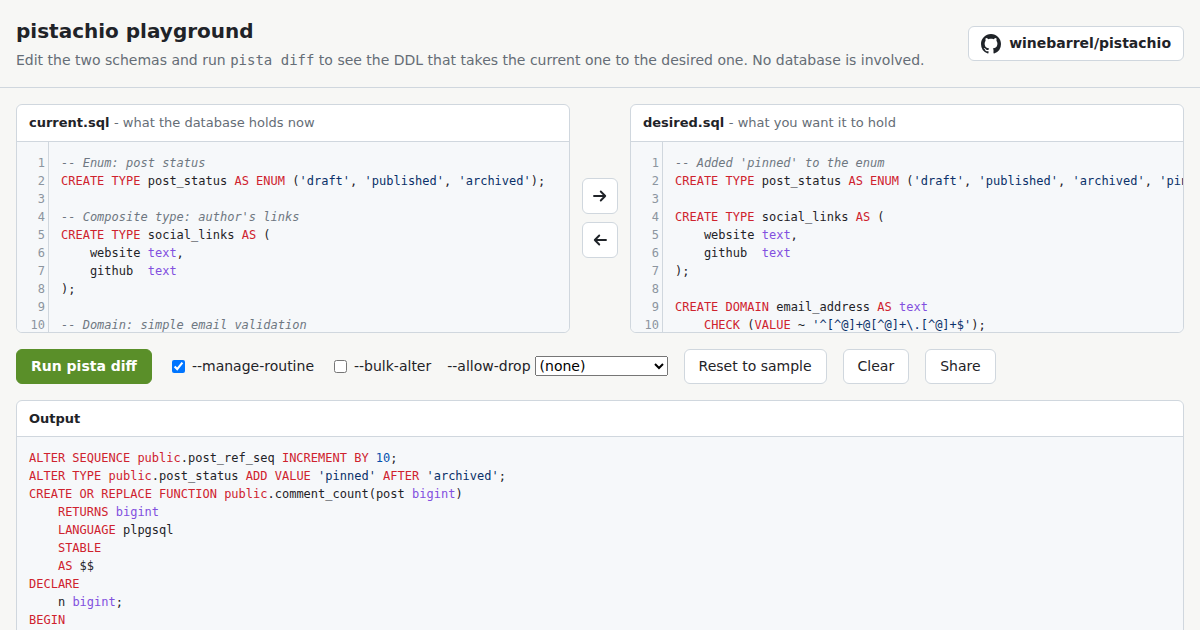
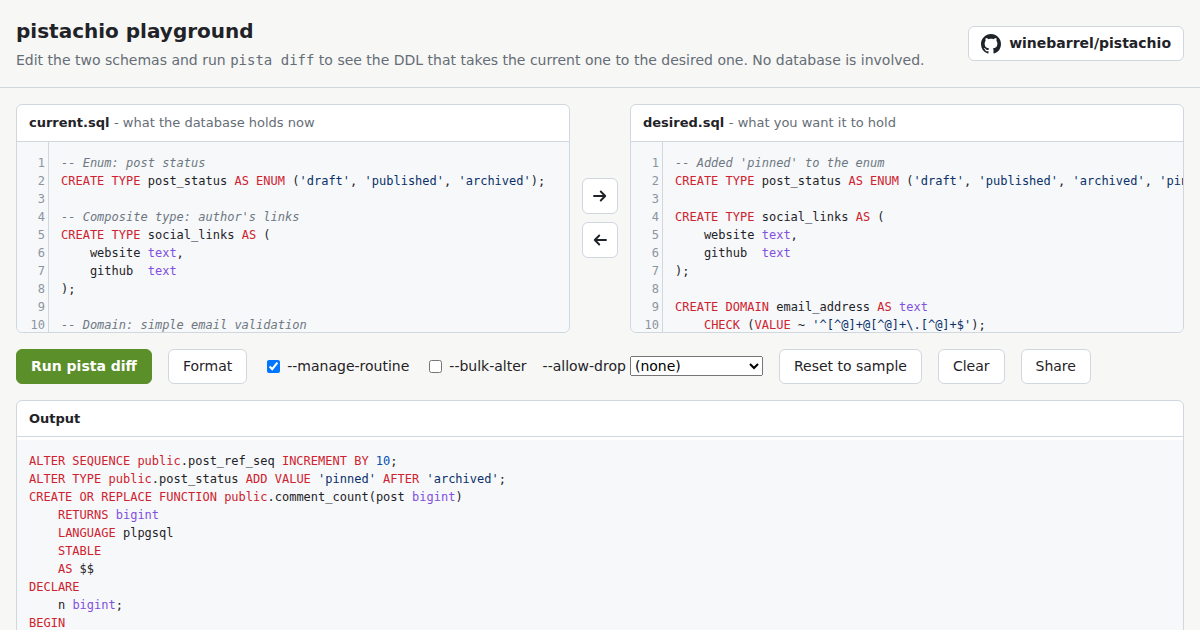
Format both editors with pista fmt
A Format button sends both schemas to POST /api/fmt. The server writes
them to a temporary directory, runs `pista fmt` on them, and returns both
formatted. When either fails to parse it returns only the error, naming the
file, so the page leaves both editors as they were and shows the error in
the output. On success the page replaces the text as one undoable edit,
keeps the cursor line and scroll position, and runs the diff again.

Format goes through the same request path as Run: the page locks and shows
progress, a platform failure shows its reason, and no answer in 60 s
unlocks the page. The Worker's retry on a 5xx covers /api/fmt as well.

og.png is recaptured with the Format button, and og:image moves to ?v=4.

Claude-Session: https://claude.ai/code/session_01FbaxSWppEtBMYJnYohKL1Y

Changed region(s): [[0.0, 0.6937, 0.4317, 0.9952], [0.1233, 0.5429, 0.8325, 0.6032], [0.8633, 0.573, 0.8942, 0.6032]]

diff --git a/public/index.html b/public/index.html
@@ -10,7 +10,7 @@
 <meta property="og:title" content="pistachio playground">
 <meta property="og:description" content="Edit two PostgreSQL schemas and see the DDL pista diff generates. Nothing to install, no database needed.">
 <meta property="og:url" content="https://pistachio-demo.winebarrel.workers.dev/">
-<meta property="og:image" content="https://pistachio-demo.winebarrel.workers.dev/og.png?v=3">
+<meta property="og:image" content="https://pistachio-demo.winebarrel.workers.dev/og.png?v=4">
 <meta property="og:image:width" content="1200">
 <meta property="og:image:height" content="630">
 <meta property="og:image:alt" content="The pistachio playground: two schema editors and the DDL pista diff generates">
@@ -335,6 +335,7 @@
 
   <div class="controls">
     <button id="run" class="primary">Run pista diff</button>
+    <button id="format" title="Format both editors with pista fmt">Format</button>
     <label><input type="checkbox" id="manage-routine" checked> --manage-routine</label>
     <label><input type="checkbox" id="bulk-alter"> --bulk-alter</label>
     <label>--allow-drop
@@ -507,56 +508,99 @@
   // after this long is dropped so the page does not stay locked.
   const RUN_TIMEOUT_MS = 60000;
 
-  async function run() {
-    if (busy) return;
+  // Sends one request to pista in the container. While it is in flight the
+  // page is locked and shows progress; the elapsed time ticks so a slow
+  // request, such as one that waits for a container to start, still visibly
+  // moves. Returns pista's JSON answer, or null after showing why there is
+  // none: the platform failed, or no answer came in time.
+  async function callPista(path, body, verb) {
     setBusy(true);
     const started = performance.now();
-    // The elapsed time ticks so a slow run, such as one that waits for a
-    // container to start, still visibly moves.
     const tick = () => {
       const seconds = Math.floor((performance.now() - started) / 1000);
-      status.textContent = `Running... ${seconds} s (the first run starts the container)`;
+      status.textContent = `${verb}... ${seconds} s (the first run starts the container)`;
     };
     tick();
     const ticker = setInterval(tick, 250);
     try {
-      const res = await fetch("/api/diff", {
+      const res = await fetch(path, {
         method: "POST",
         headers: { "Content-Type": "application/json" },
-        body: JSON.stringify(inputs()),
+        body: JSON.stringify(body),
         signal: AbortSignal.timeout(RUN_TIMEOUT_MS),
       });
       const text = await res.text();
-      let body = null;
+      let answer = null;
       try {
-        body = JSON.parse(text);
+        answer = JSON.parse(text);
       } catch {}
-      if (!body) {
+      if (!answer) {
         // Not an answer from pista: the platform failed on the way there.
         const reason = text.trim() || res.statusText;
         const hint = /try again/i.test(reason) ? "" : "\nTry again.";
         render(`HTTP ${res.status}: ${reason}${hint}`, true);
         status.textContent = "Failed";
-        return;
+        return null;
       }
-      if (body.error) {
-        render(body.error, true);
-      } else {
-        render(body.output.replace(/\n$/, ""), false);
-      }
-      status.textContent = `Done in ${Math.round(performance.now() - started)} ms`;
+      answer.elapsed = Math.round(performance.now() - started);
+      return answer;
     } catch (e) {
       const timedOut = e.name === "TimeoutError";
       render(timedOut ? `No answer after ${RUN_TIMEOUT_MS / 1000} s. Try again.` : String(e), true);
       status.textContent = "Failed";
+      return null;
     } finally {
       clearInterval(ticker);
       setBusy(false);
     }
   }
 
+  async function run() {
+    if (busy) return;
+    const answer = await callPista("/api/diff", inputs(), "Running");
+    if (!answer) return;
+    if (answer.error) {
+      render(answer.error, true);
+    } else {
+      render(answer.output.replace(/\n$/, ""), false);
+    }
+    status.textContent = `Done in ${answer.elapsed} ms`;
+  }
+
+  // Formats both editors with pista fmt. When either fails to parse, pista
+  // returns neither, so both editors stay as they were and the output says
+  // which file failed. On success the diff runs again, so the output never
+  // keeps a format error from an earlier attempt.
+  // Replaces the editor text as one ordinary edit, so undo brings the old
+  // text back, and keeps the cursor line and scroll position where they were.
+  function replaceText(cm, text) {
+    if (cm.getValue() === text) return;
+    const cursor = cm.getCursor();
+    const { left, top } = cm.getScrollInfo();
+    cm.setValue(text);
+    cm.setCursor(cursor);
+    cm.scrollTo(left, top);
+  }
+
+  async function format() {
+    if (busy) return;
+    const { current: c, desired: d } = inputs();
+    const answer = await callPista("/api/fmt", { current: c, desired: d }, "Formatting");
+    if (!answer) return;
+    if (answer.error) {
+      render(`Could not format:\n${answer.error}`, true);
+      status.textContent = "Format failed";
+      return;
+    }
+    replaceText(current, answer.current);
+    replaceText(desired, answer.desired);
+    await run();
+  }
+
+
 
   runButton.addEventListener("click", run);
+  $("format").addEventListener("click", format);
   // Copying desired into current stands in for applying the diff.
   $("copy-to-desired").addEventListener("click", () => {
     desired.setValue(current.getValue());

diff --git a/server/main.go b/server/main.go
@@ -1,6 +1,7 @@
 // Command server is the HTTP front of the demo container. It takes two schema
-// files in a JSON request, runs `pista diff` on them, and returns the output.
-// No database is involved.
+// files in a JSON request and runs pista on them: `pista diff` for the DDL
+// that takes one to the other, and `pista fmt` to format both. No database is
+// involved.
 package main
 
 import (
@@ -22,6 +23,13 @@ const (
 	runTimeout   = 10 * time.Second
 )
 
+// The two schemas are written under these names, which are also the names
+// pista uses in its messages.
+const (
+	currentFile = "current.sql"
+	desiredFile = "desired.sql"
+)
+
 type diffRequest struct {
 	Current       string   `json:"current"`
 	Desired       string   `json:"desired"`
@@ -33,6 +41,19 @@ type diffRequest struct {
 type diffResponse struct {
 	Output string `json:"output,omitempty"`
 	Error  string `json:"error,omitempty"`
+}
+
+type fmtRequest struct {
+	Current string `json:"current"`
+	Desired string `json:"desired"`
+}
+
+// A failed format carries only Error, so the page can tell it apart from two
+// schemas that format to empty text.
+type fmtResponse struct {
+	Current *string `json:"current,omitempty"`
+	Desired *string `json:"desired,omitempty"`
+	Error   string  `json:"error,omitempty"`
 }
 
 func main() {
@@ -47,9 +68,7 @@ func main() {
 	})
 	mux.HandleFunc("POST /api/diff", func(w http.ResponseWriter, r *http.Request) {
 		var req diffRequest
-		r.Body = http.MaxBytesReader(w, r.Body, maxBodyBytes)
-		if err := json.NewDecoder(r.Body).Decode(&req); err != nil {
-			writeJSON(w, http.StatusBadRequest, diffResponse{Error: "invalid request: " + err.Error()})
+		if !decode(w, r, &req) {
 			return
 		}
 
@@ -60,6 +79,19 @@ func main() {
 		}
 		writeJSON(w, http.StatusOK, diffResponse{Output: out})
 	})
+	mux.HandleFunc("POST /api/fmt", func(w http.ResponseWriter, r *http.Request) {
+		var req fmtRequest
+		if !decode(w, r, &req) {
+			return
+		}
+
+		res, err := runFmt(r.Context(), pista, &req)
+		if err != nil {
+			writeJSON(w, http.StatusOK, fmtResponse{Error: err.Error()})
+			return
+		}
+		writeJSON(w, http.StatusOK, res)
+	})
 
 	addr := ":8080"
 	log.Printf("listening on %s", addr)
@@ -67,36 +99,39 @@ func main() {
 	log.Fatal(srv.ListenAndServe())
 }
 
-func runDiff(ctx context.Context, pista string, req *diffRequest) (string, error) {
+// decode reads the JSON request body into v. On failure it answers 400 and
+// returns false.
+func decode(w http.ResponseWriter, r *http.Request, v any) bool {
+	r.Body = http.MaxBytesReader(w, r.Body, maxBodyBytes)
+	if err := json.NewDecoder(r.Body).Decode(v); err != nil {
+		writeJSON(w, http.StatusBadRequest, diffResponse{Error: "invalid request: " + err.Error()})
+		return false
+	}
+	return true
+}
+
+// withSchemas writes the two schemas to a fresh temporary directory, calls fn
+// with it, and removes it afterwards.
+func withSchemas(current, desired string, fn func(dir string) error) error {
 	dir, err := os.MkdirTemp("", "pista-demo-")
 	if err != nil {
-		return "", err
+		return err
 	}
 	defer os.RemoveAll(dir) //nolint:errcheck
 
-	current := filepath.Join(dir, "current.sql")
-	desired := filepath.Join(dir, "desired.sql")
-	if err := os.WriteFile(current, []byte(req.Current), 0o600); err != nil {
-		return "", err
+	if err := os.WriteFile(filepath.Join(dir, currentFile), []byte(current), 0o600); err != nil {
+		return err
 	}
-	if err := os.WriteFile(desired, []byte(req.Desired), 0o600); err != nil {
-		return "", err
+	if err := os.WriteFile(filepath.Join(dir, desiredFile), []byte(desired), 0o600); err != nil {
+		return err
 	}
+	return fn(dir)
+}
 
-	// Each option goes in one argument with "=", so a value can never be
-	// read as a flag of its own. pista validates the values itself.
-	args := []string{"diff"}
-	if len(req.AllowDrop) > 0 {
-		args = append(args, "--allow-drop="+strings.Join(req.AllowDrop, ","))
-	}
-	if req.ManageRoutine {
-		args = append(args, "--manage-routine")
-	}
-	if req.BulkAlter {
-		args = append(args, "--bulk-alter")
-	}
-	args = append(args, "--", current, desired)
-
+// runPista runs pista in dir and returns its stdout. On failure the error
+// carries pista's stderr. The files are passed by name relative to dir, so
+// messages name them as the page does.
+func runPista(ctx context.Context, pista, dir string, args ...string) (string, error) {
 	ctx, cancel := context.WithTimeout(ctx, runTimeout)
 	defer cancel()
 
@@ -110,18 +145,76 @@ func runDiff(ctx context.Context, pista string, req *diffRequest) (string, error
 
 	if err := cmd.Run(); err != nil {
 		if errors.Is(ctx.Err(), context.DeadlineExceeded) {
-			return "", errors.New("pista diff timed out")
+			return "", errors.New("pista " + args[0] + " timed out")
 		}
 		msg := strings.TrimSpace(stderr.String())
 		if msg == "" {
 			msg = err.Error()
 		}
-		// Show the file names the user sees, not the temporary paths.
-		msg = strings.ReplaceAll(msg, dir+string(filepath.Separator), "")
 		return "", errors.New(msg)
 	}
 
 	return stdout.String(), nil
+}
+
+func runDiff(ctx context.Context, pista string, req *diffRequest) (string, error) {
+	var out string
+	err := withSchemas(req.Current, req.Desired, func(dir string) error {
+		// Each option goes in one argument with "=", so a value can never be
+		// read as a flag of its own. pista validates the values itself.
+		args := []string{"diff"}
+		if len(req.AllowDrop) > 0 {
+			args = append(args, "--allow-drop="+strings.Join(req.AllowDrop, ","))
+		}
+		if req.ManageRoutine {
+			args = append(args, "--manage-routine")
+		}
+		if req.BulkAlter {
+			args = append(args, "--bulk-alter")
+		}
+		args = append(args, "--", currentFile, desiredFile)
+
+		var err error
+		out, err = runPista(ctx, pista, dir, args...)
+		return err
+	})
+	return out, err
+}
+
+// runFmt formats both schemas in place with `pista fmt` and reads them back.
+// When either fails to parse, neither is returned, so the page keeps both as
+// they were.
+func runFmt(ctx context.Context, pista string, req *fmtRequest) (*fmtResponse, error) {
+	var res fmtResponse
+	err := withSchemas(req.Current, req.Desired, func(dir string) error {
+		if _, err := runPista(ctx, pista, dir, "fmt", "--", currentFile, desiredFile); err != nil {
+			// pista names each file that failed with its error, then adds a
+			// summary line that says nothing more.
+			var lines []string
+			for line := range strings.SplitSeq(err.Error(), "\n") {
+				if !strings.HasPrefix(line, "pista: error: failed to format") {
+					lines = append(lines, line)
+				}
+			}
+			return errors.New(strings.Join(lines, "\n"))
+		}
+
+		current, err := os.ReadFile(filepath.Join(dir, currentFile))
+		if err != nil {
+			return err
+		}
+		desired, err := os.ReadFile(filepath.Join(dir, desiredFile))
+		if err != nil {
+			return err
+		}
+		c, d := string(current), string(desired)
+		res.Current, res.Desired = &c, &d
+		return nil
+	})
+	if err != nil {
+		return nil, err
+	}
+	return &res, nil
 }
 
 func writeJSON(w http.ResponseWriter, status int, v any) {

diff --git a/README.md b/README.md
@@ -96,3 +96,7 @@ trigger CI. The workflow therefore starts CI on the new branch itself, with
 ```
 
 and returns `{"output": "..."}`, or `{"error": "..."}` when pista fails.
+
+`POST /api/fmt` takes `{"current": "...", "desired": "..."}`, formats both with
+`pista fmt`, and returns them in the same shape. When either fails to parse it
+returns only `{"error": "..."}`, naming the file.
